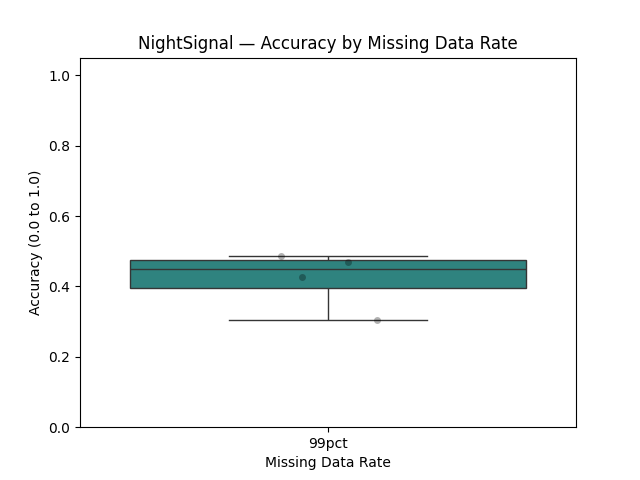
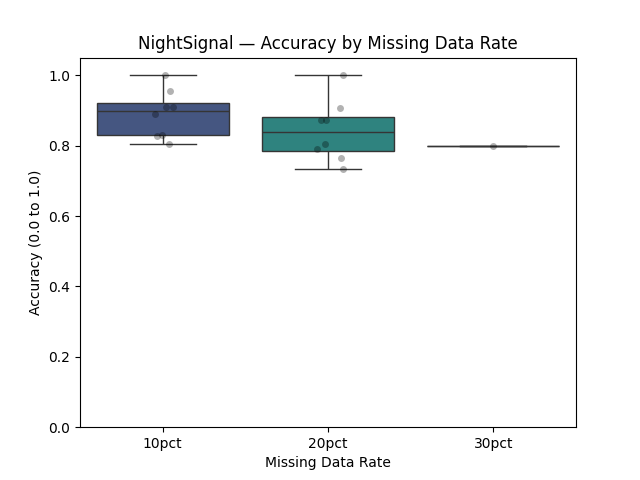
inserido mar

diff --git a/generate_missing.py b/generate_missing.py
@@ -2,12 +2,15 @@
 from pathlib import Path
 import shutil
 import time
-
 import numpy as np
 import pandas as pd
 from mdatagen.univariate.uMCAR import uMCAR
+from mdatagen.univariate.uMNAR import uMNAR
+from mdatagen.univariate.uMAR import uMAR
 import os
 import subprocess
+import missingno as msno
+import matplotlib.pyplot as plt
 
 
 PROCESSING_DIR = Path("data/processing")
@@ -15,24 +18,85 @@ MISSING_DIR = Path("data/missing")
 RESULTS_DIR = Path("results")
 
 # Taxas de ausência que serão geradas
-RATES = [99]
+RATES = [20]
 
 SEED = 42
 
 # Nome da coluna que receberá os dados ausentes
 HR_COLUMN = "HR_Value"
 
-def mnar(df: pd.DataFrame, taxa: int) -> pd.DataFrame:
-    # implementar
-    print("MNAR not yet implemented")
 
-def mar(df: pd.DataFrame, taxa: int) -> pd.DataFrame:
-    # implementar
-    print("MAR not yet implemented")
+# def mnar(df: pd.DataFrame, rate: int) -> pd.DataFrame:
+    
+    # df_out = df.copy()
+
+    # # uMCAR exige: REVISAR
+    # #   X = DataFrame com a coluna que vai receber os valores ausentes
+    # #   y = array numpy qualquer (MCAR não usa rótulos — passamos zeros)
+    # #   missing_rate 
+    # #   x_miss = nome da coluna que vai receber os NaNs
+    # #   seed 
+
+    # X = df_out[[HR_COLUMN]].astype(float)
+    # y = np.zeros(len(X))
+
+    # generator = uMNAR(X=X, y=y, missing_rate=rate, x_miss=HR_COLUMN)
+
+    # # .random() é o método que gera os NaNs e os RETORNA num novo DataFrame.
+    # X_with_missing = generator.random()
+
+
+    # #adicionando a coluna de Steps e Batimentos ao final
+    # df_out["HR_MISSING"] = df[HR_COLUMN].astype(int)  # cópia da coluna original para referência
+    # df_out["ST_MISSING"] = df["ST_Value"]#.astype(int) # se precisar ser float em algum momento
+
+
+    # # Substitui a coluna HR no DataFrame completo
+    # df_out[HR_COLUMN] = X_with_missing[HR_COLUMN].values
+
+    # # # Converte mantendo os NaN como nulos, mas tratando o resto como inteiro
+    # df_out[HR_COLUMN] = df_out[HR_COLUMN].astype('Int64')
+   
+
+    # return df_out
+
+def mar(df: pd.DataFrame, rate: int) -> pd.DataFrame:
+    # Cria uma cópia do DataFrame original
+    df_out = df.copy()
+    time_column = 'Datetime'
+
+    df_out[time_column] = pd.to_datetime(df_out[time_column])
+
+    # Cria uma série indicadora para a noite (1 para noite, 0 para dia)
+    hours = df_out[time_column].dt.hour
+    
+    # Cria a coluna indicadora de noite DENTRO do DataFrame para compor o X
+    df_out['is_night'] = ((hours >= 22) | (hours < 6)).astype(int)
+
+    # X agora recebe DUAS colunas: quem vai sumir (HR) e quem causa o sumiço (is_night)
+    X = df_out[[HR_COLUMN, 'is_night']].astype(float)
+    
+    # y volta a ser um array neutro, pois a mdatagen usa o X para a lógica MAR
+    y = np.zeros(len(X))
+
+    # Instancia o gerador apontando x_obs para a nova coluna do X
+    generator = uMAR(X=X, y=y, missing_rate=rate, x_miss=HR_COLUMN, x_obs='is_night')
+    X_with_missing = generator.rank()
+
+    # Atualiza a coluna no DataFrame principal
+    df_out[HR_COLUMN] = X_with_missing[HR_COLUMN].values
+
+    # Adiciona as colunas de referência originais para validação futura
+    df_out["HR_MISSING"] = df[HR_COLUMN].astype(int)
+    df_out["ST_MISSING"] = df["ST_Value"]
+    df_out[HR_COLUMN] = df_out[HR_COLUMN].astype('Int64')
+
+    return df_out
 
 
 
-def mcar(df: pd.DataFrame, taxa: int) -> pd.DataFrame:
+
+def mcar(df: pd.DataFrame, rate: int) -> pd.DataFrame:
 
     # Recebe o DataFrame original e devolve uma CÓPIA com alguns valores de HR_Value substituídos por NaN, de forma completamente aleatória (MCAR).
 
@@ -48,7 +112,7 @@ def mcar(df: pd.DataFrame, taxa: int) -> pd.DataFrame:
     X = df_out[[HR_COLUMN]].astype(float)
     y = np.zeros(len(X))
 
-    generator = uMCAR(X=X, y=y, missing_rate=taxa, x_miss=HR_COLUMN, seed=SEED)
+    generator = uMCAR(X=X, y=y, missing_rate=rate, x_miss=HR_COLUMN, seed=SEED)
 
     # .random() é o método que gera os NaNs e os RETORNA num novo DataFrame.
     X_with_missing = generator.random()
@@ -64,9 +128,10 @@ def mcar(df: pd.DataFrame, taxa: int) -> pd.DataFrame:
 
     # # Converte mantendo os NaN como nulos, mas tratando o resto como inteiro
     df_out[HR_COLUMN] = df_out[HR_COLUMN].astype('Int64')
-   
-
+    
     return df_out
+
+
 
 
 def save_csv_missing(df: pd.DataFrame, patient_id: str, taxa: int, mechanism: str):
@@ -97,7 +162,7 @@ def save_csv_missing(df: pd.DataFrame, patient_id: str, taxa: int, mechanism: st
     return output_path
 
 
-def process_patient(patient_id: str, input_csv: Path, mechanism: str):
+def process_patient(patient_id: str, input_csv: Path, mechanism: str, rate: int) -> pd.DataFrame:
     """
     Fluxo completo para um paciente:
       1. Lê o CSV processado
@@ -117,21 +182,30 @@ def process_patient(patient_id: str, input_csv: Path, mechanism: str):
     # salvar_original(csv_entrada, patient_id)
     # print(f"  Original copiado para: data/missing/original/{patient_id}/")
 
-    # Gera um CSV para cada taxa
-    for rate in RATES:
-        df_ausente = mcar(df, rate)
 
-        nan_count = df_ausente[HR_COLUMN].isna().sum()
+    if mechanism == "MCAR":
+        missing_df = mcar(df, rate)
+        nan_count = missing_df[HR_COLUMN].isna().sum()
         actual_rate = nan_count / total_rows * 100
-
-        output_path = save_csv_missing(df_ausente, patient_id, rate, mechanism)
+        output_path = save_csv_missing(missing_df, patient_id, rate, mechanism)
 
         print(f"  {mechanism} {rate:>2}%: {nan_count:>5} NaNs / {total_rows} linhas "
-              f"= {actual_rate:.1f}% real  →  {output_path}")
+            f"= {actual_rate:.1f}% real  →  {output_path}")
         print("Running NightSignal for this patient with missing data...")
         run_patient_process(rate, patient_id, mechanism)
 
+    elif mechanism == "MAR":
+        missing_df = mar(df, rate)
+        nan_count = missing_df[HR_COLUMN].isna().sum()
+        actual_rate = nan_count / total_rows * 100
+        output_path = save_csv_missing(missing_df, patient_id, rate, mechanism)
 
+        print(f"  {mechanism} {rate:>2}%: {nan_count:>5} NaNs / {total_rows} linhas "
+            f"= {actual_rate:.1f}% real  →  {output_path}")
+        print("Running NightSignal for this patient with missing data...")
+        run_patient_process(rate, patient_id, mechanism)
+
+    return missing_df
 
 def run_patient_process(taxa: int, patient_id: str, mechanism: str):
     print("Starting NightSignal processing...")
@@ -188,13 +262,16 @@ def main():
         print(f"[ERRO] Pasta '{PROCESSING_DIR}' não encontrada.")
         print("Run run_all.py first to generate the processed CSVs.")
         return
+    
+    df_mcar = pd.DataFrame()
+    df_mar = pd.DataFrame()
 
     # Encontra todas as pastas de pacientes em data/processing/
-    folders_patients = sorted(
+    patients = sorted(
         p for p in PROCESSING_DIR.iterdir() if p.is_dir()
     )
 
-    if not folders_patients:
+    if not patients:
         print(f"[WARNING] No patient folder found in {PROCESSING_DIR}.")
         return
 
@@ -202,16 +279,39 @@ def main():
     print(f"Generating MCAR missing data — rates: {RATES}%  |  seed: {SEED}")
     print(f"{'='*55}")
 
-    for folder in folders_patients:
-        patient_id = folder.name
-        input_csv = folder / f"{patient_id}_temp.csv"
+    for patient_folder in patients:
+        patient_id = patient_folder.name
+        input_csv = patient_folder / f"{patient_id}_temp.csv"
 
         if not input_csv.exists():
             print(f"\n[WARNING] {input_csv} not found, skipping.")
             continue
 
-        process_patient(patient_id, input_csv, "MCAR")
+        for rate in RATES:
+    
+            df_mcar = process_patient(patient_id, input_csv, "MCAR", rate)
+            df_mar = process_patient(patient_id, input_csv, "MAR", rate)
 
+            fig, axes = plt.subplots(1, 3, figsize=(15, 6))
+        
+            # 1. Plot MCAR (Verde) no primeiro espaço (axes[0])
+            # Usamos sparkline=False para evitar bugs de layout quando colocados lado a lado
+            msno.matrix(df_mcar[[HR_COLUMN]], ax=axes[0], sparkline=False, color=(0.2, 0.8, 0.2))
+            axes[0].set_title("MCAR", fontsize=16)
+            
+            # 2. Plot MAR (Vermelho) no segundo espaço (axes[1])
+            msno.matrix(df_mar[[HR_COLUMN]], ax=axes[1], sparkline=False, color=(0.8, 0.2, 0.2))
+            axes[1].set_title("MAR", fontsize=16)
+            
+            
+            # Ajusta os espaçamentos para os títulos não encavalarem
+            plt.tight_layout()
+            
+            # SALVA O ARQUIVO: dpi=300 garante qualidade de artigo científico
+            plt.savefig("teste.png", dpi=300, bbox_inches='tight')
+            
+            # Exibe a imagem na tela para você conferir na hora
+            plt.show()
 
 
 if __name__ == "__main__":